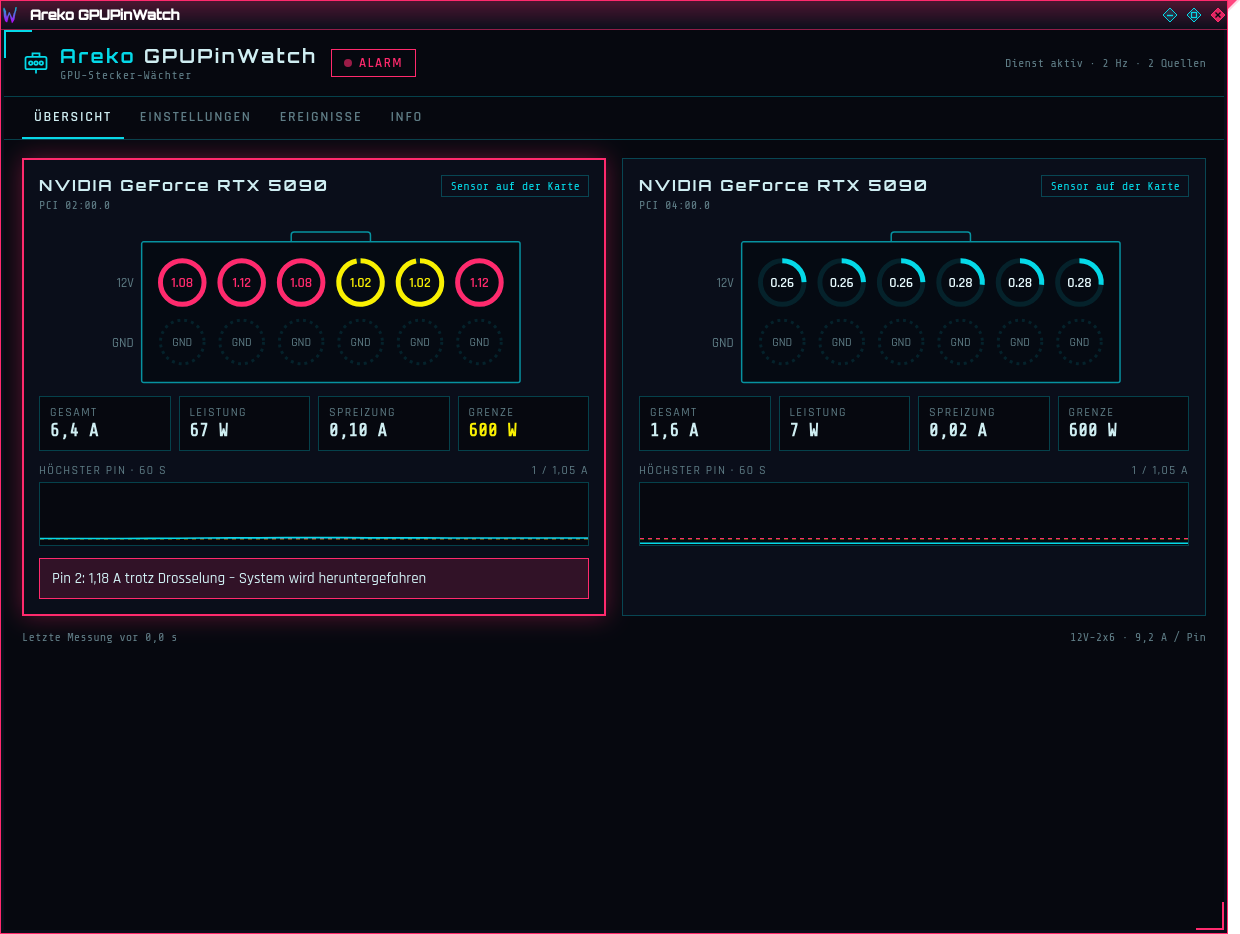
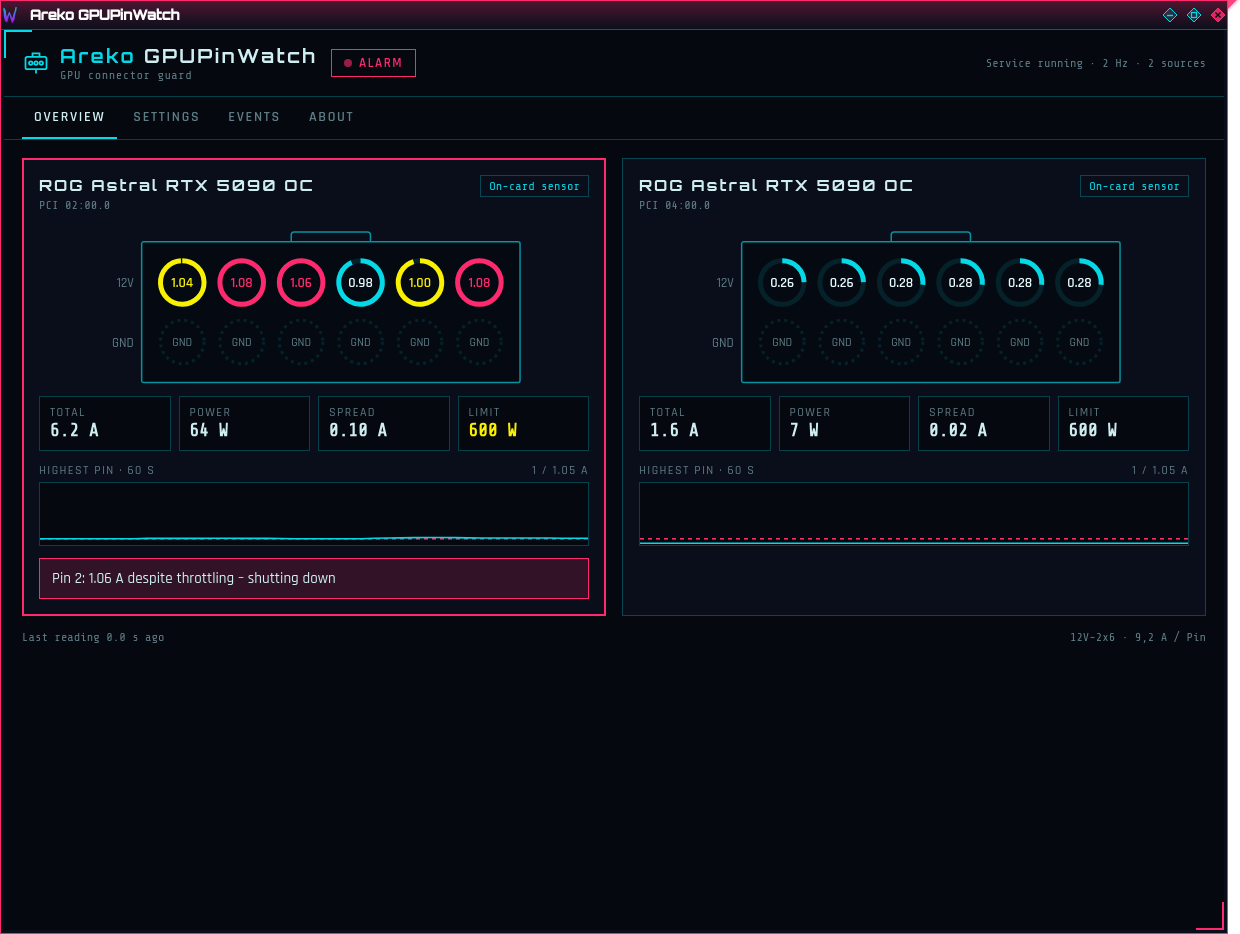
Screenshots auf Englisch (Übersicht Areko/Dark/Light, Alarm), Modellname im Kartentitel

diff --git a/README.de.md b/README.de.md
@@ -29,7 +29,7 @@ angemeldeten Nutzer; das Fenster ist nur die Anzeige.
 
 | Alarm | Dark | Light |
 |---|---|---|
-| ![Alarm](docs/screenshots/alarm-areko.png) | ![Dark](docs/screenshots/settings-dark.png) | ![Light](docs/screenshots/settings-light.png) |
+| ![Alarm](docs/screenshots/alarm-areko.png) | ![Dark](docs/screenshots/overview-dark.png) | ![Light](docs/screenshots/overview-light.png) |
 
 ## Unterstützte Hardware
 

diff --git a/README.md b/README.md
@@ -28,7 +28,7 @@ the window is only the display.
 
 | Alarm | Dark | Light |
 |---|---|---|
-| ![Alarm](docs/screenshots/alarm-areko.png) | ![Dark](docs/screenshots/settings-dark.png) | ![Light](docs/screenshots/settings-light.png) |
+| ![Alarm](docs/screenshots/alarm-areko.png) | ![Dark](docs/screenshots/overview-dark.png) | ![Light](docs/screenshots/overview-light.png) |
 
 ## Supported hardware
 
